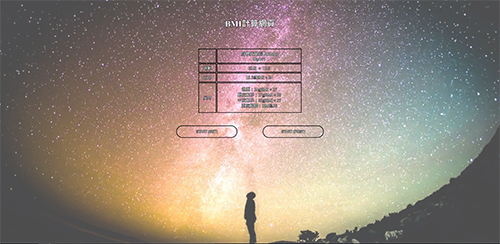
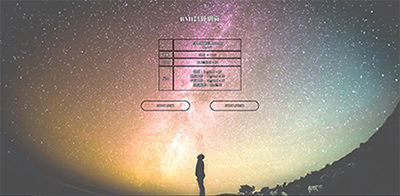
調整作品集上方標題文字

diff --git a/index.html b/index.html
@@ -64,7 +64,7 @@
 
     <!-- 作品區 -->
     <main id="portfolio" class="container2">
-        <p class="text" style="text-align: center;">portfolio</p>
+        <p class="text" style="text-align: center;line-height: 30vh;">portfolio</p>
         <div class="por">
             <a href="http://220.128.133.15/s1110208/PerpetualCalendar-HomeWork/"><img src="./img/calendar.jpg" alt=""></a>
             <a href="http://220.128.133.15/s1110208/Vote/"><img src="./img/vote.jpg" alt=""></a>
